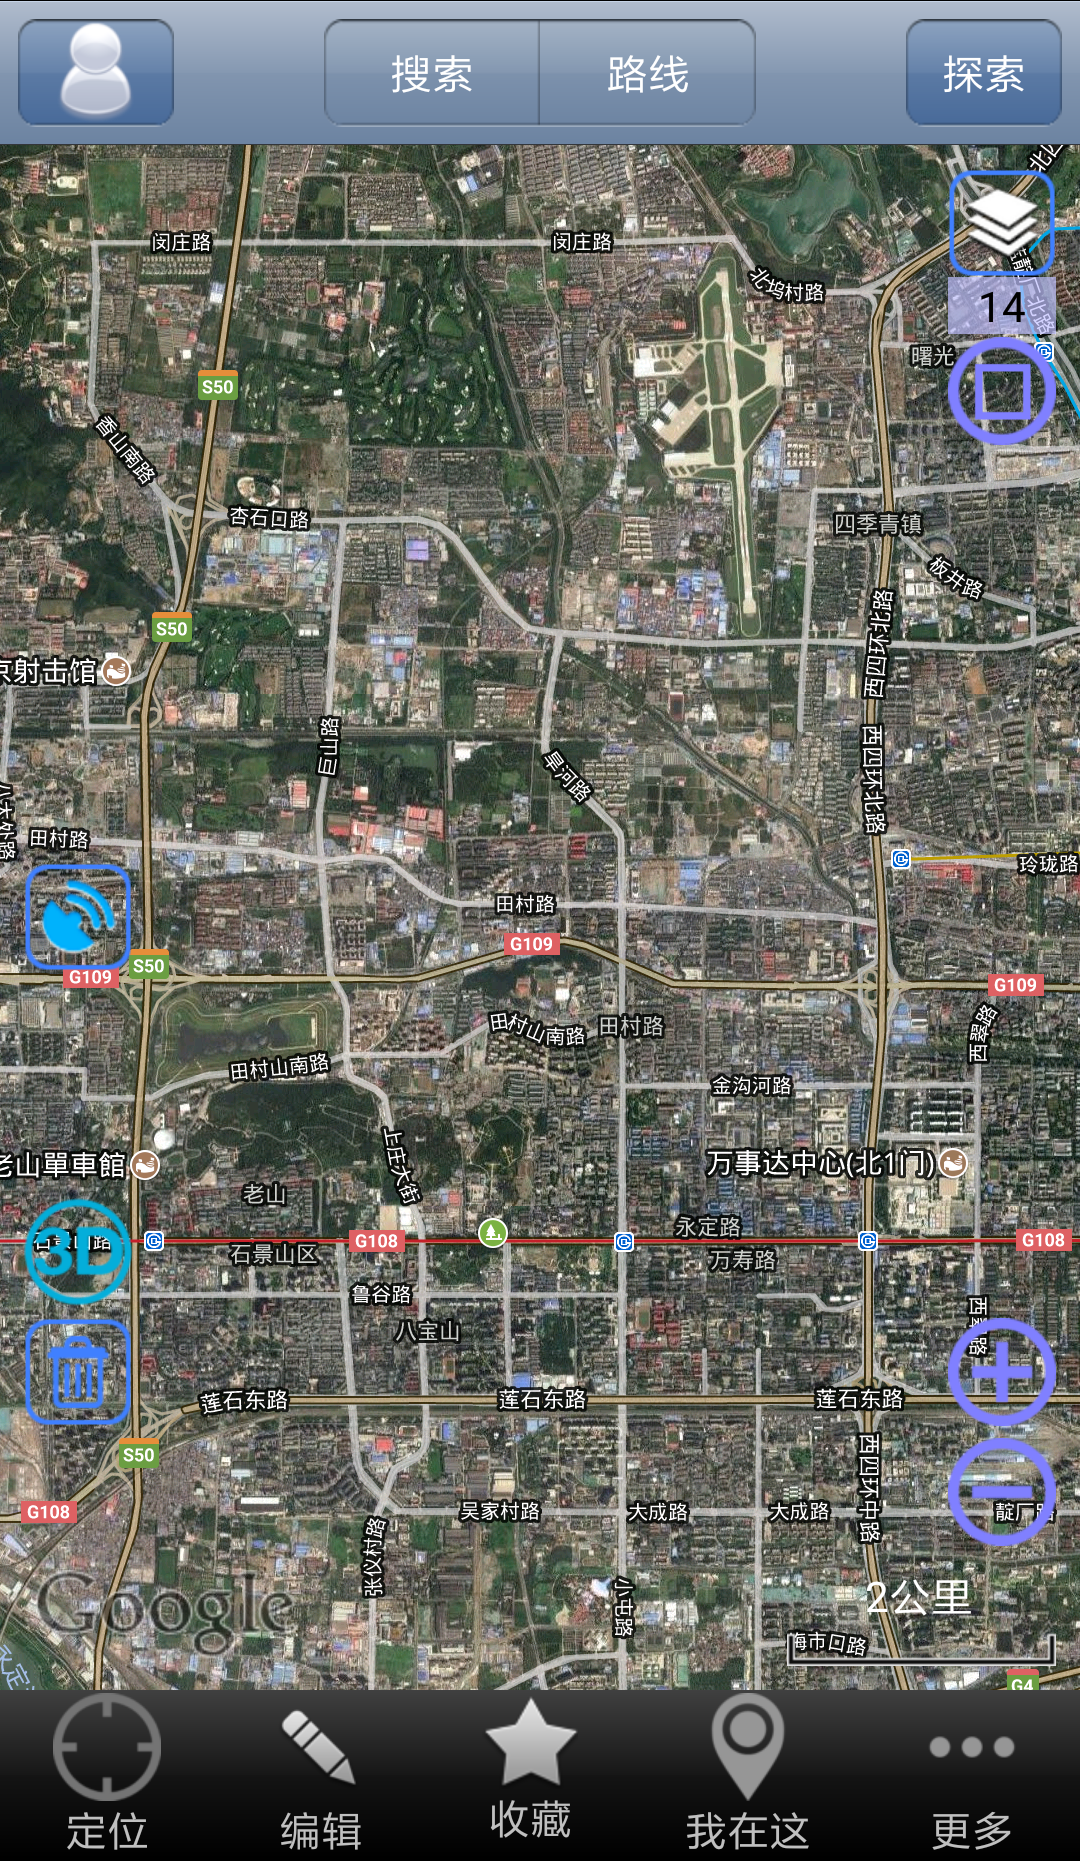
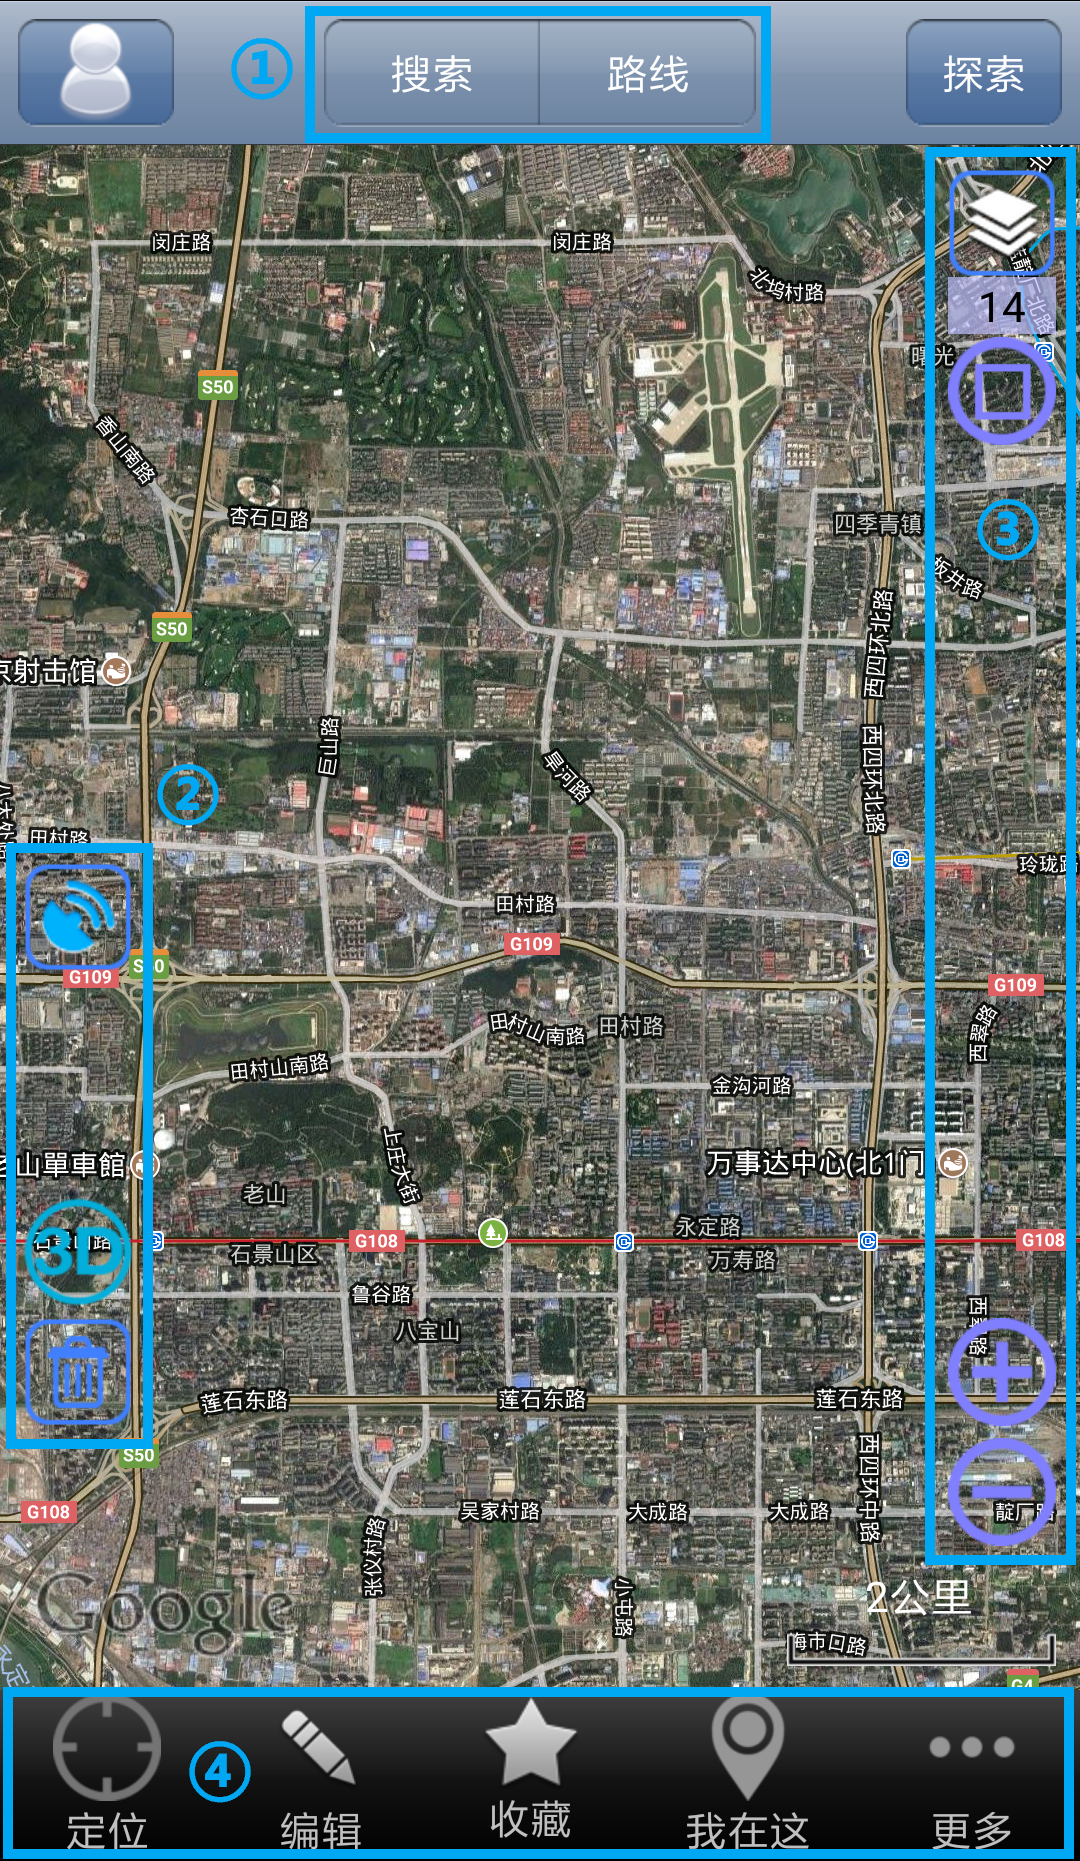
update doc

diff --git a/_docs/map-tools/ovital.md b/_docs/map-tools/ovital.md
@@ -18,6 +18,40 @@
 
 ## 基础功能
 
+首先，需对奥维互动地图的面板和基础功能进行介绍。
+
+![基础功能](../asset/map-tools/ovital/common-00.png)
+
+### ① 顶部菜单
+
+用于搜索/探索当前地图中的内容。
+
+### ② 左侧菜单
+
+从上到下依次是：
+
+1. **GPS功能** ：设置GPS功能，记录航迹等；
+2. **3D** ：开启3D功能（需要高级会员）；
+3. **清除** ：清除在地图上绘制的图形等；
+
+### ③ 右侧菜单
+
+从上到下依次是：
+
+1. **地图选择** ：选择要展示的地图；
+2. **全屏** ：切换显示/隐藏顶部和底部的菜单；
+3. **放大/缩小** ：放大缩小地图；
+
+### ④ 底部菜单
+
+从左到右依次是：
+
+1. **定位** ：返回当前GPS定位的位置；
+2. **编辑** ：通过App提供的工具，在地图上绘制图形；
+3. **收藏** ：查看/管理航迹、路点；
+4. **我在这** ：分享用户当前位置；
+5. **更多** ：展开App更多菜单；
+
 ---
 
 ## 地图

diff --git a/_docs/map-tools/oruxmaps.md b/_docs/map-tools/oruxmaps.md
@@ -25,11 +25,11 @@ OruxMaps可以从官网下载点下载，目前（2017年9月6日）版本为`v.
 
 从左到右依次是：
 
-1. **轨迹** ，包含GPS与记录航迹相关的选项；
-2. **路点** ，包含路点相关的选项；
-3. **航迹/路径** ，包含管理航迹/路径的相关选项；
-4. **地图** ，包含地图的相关选项；
-5. **设置** ，包含各种设置和其他选项；
+1. **轨迹** ：包含GPS与记录航迹相关的选项；
+2. **路点** ：包含路点相关的选项；
+3. **航迹/路径** ：包含管理航迹/路径的相关选项；
+4. **地图** ：包含地图的相关选项；
+5. **设置** ：包含各种设置和其他选项；
 
 ### ② 状态
 
